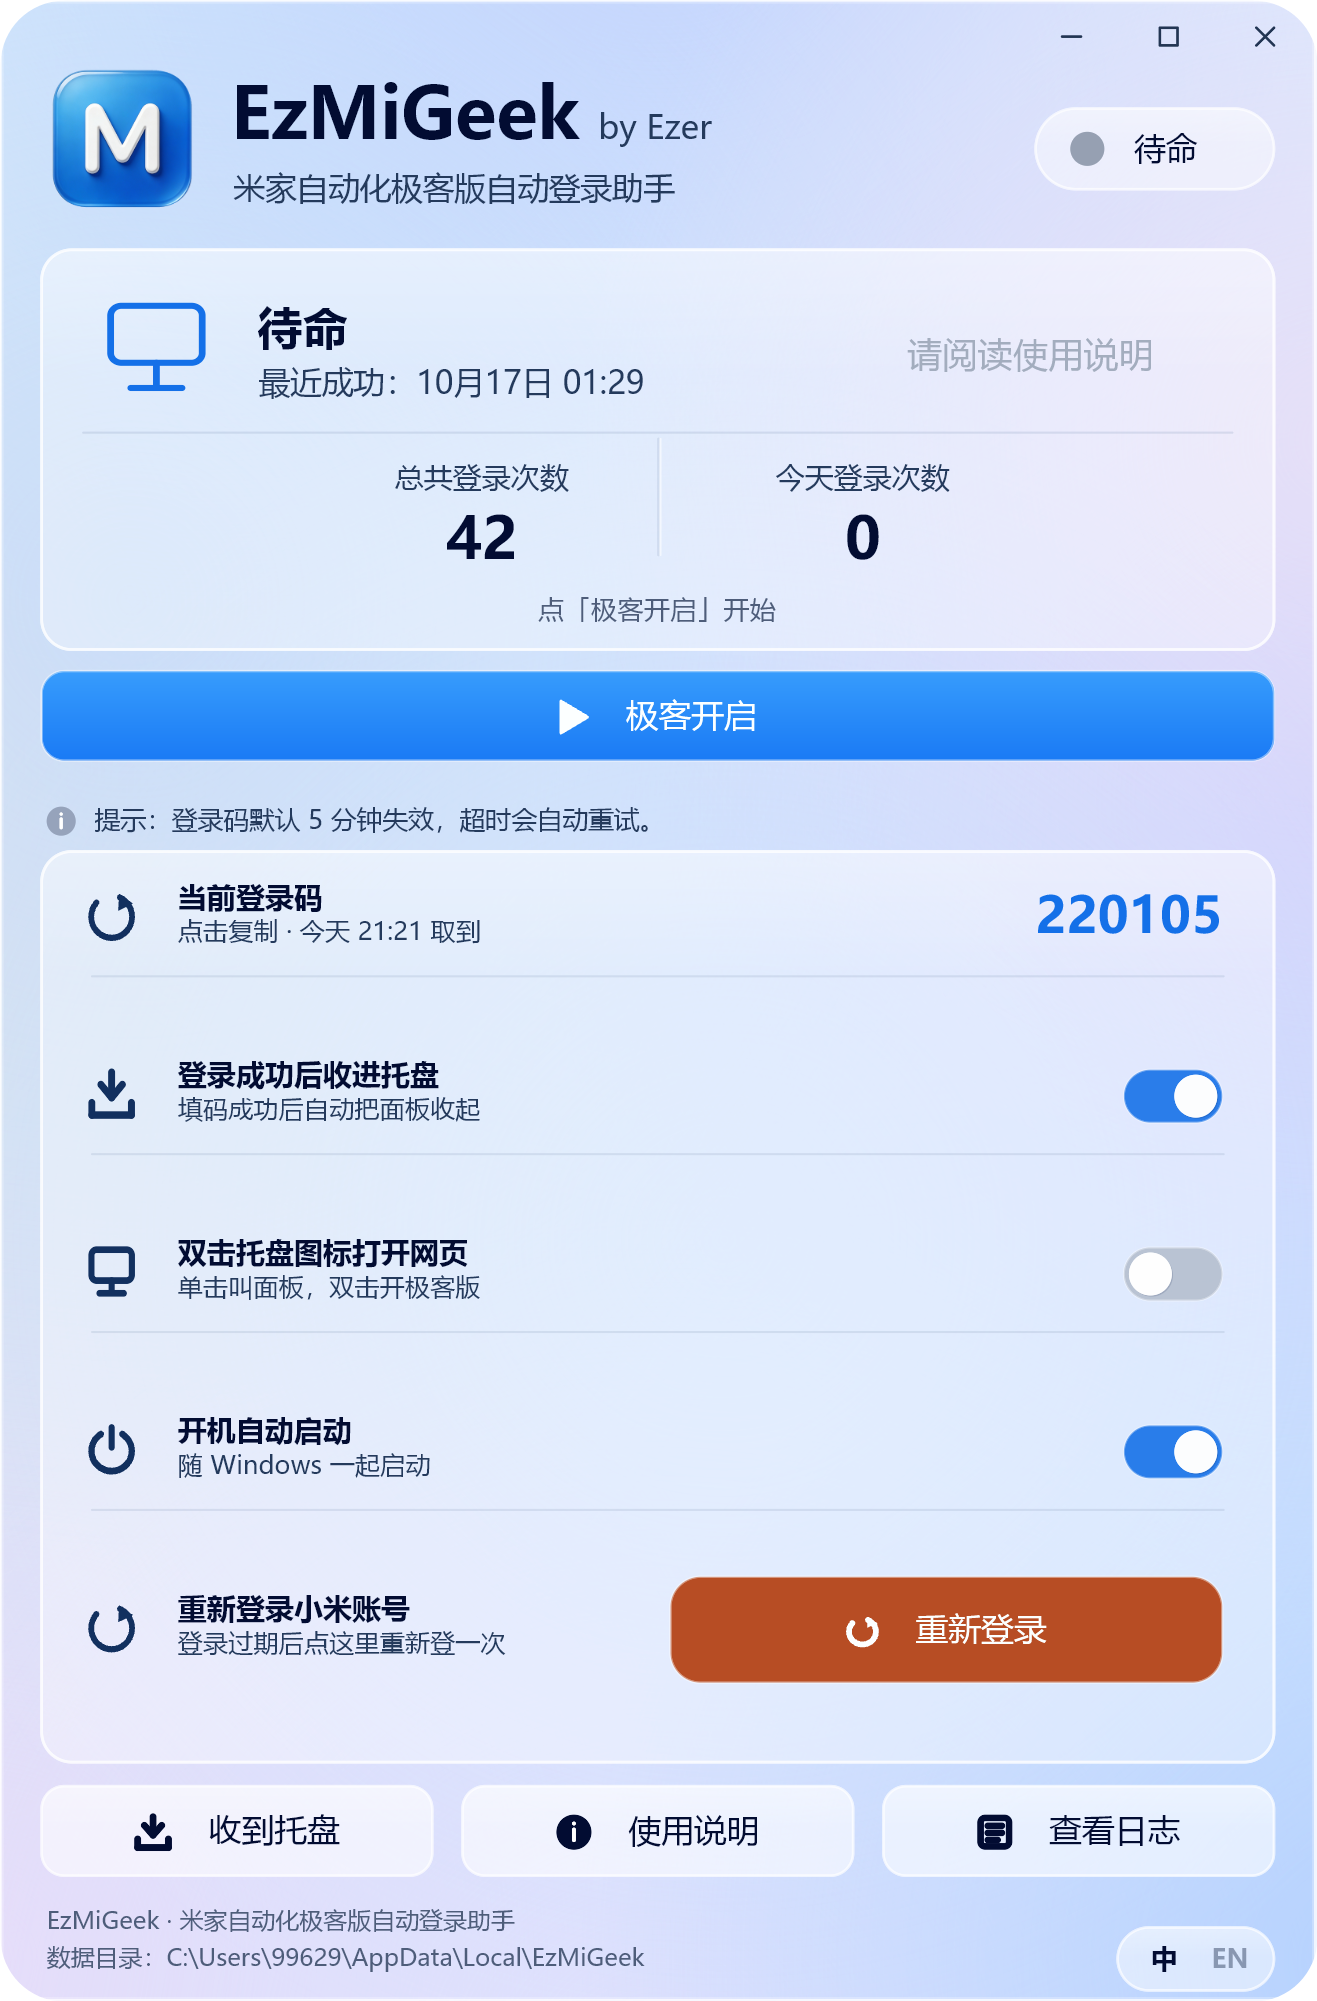
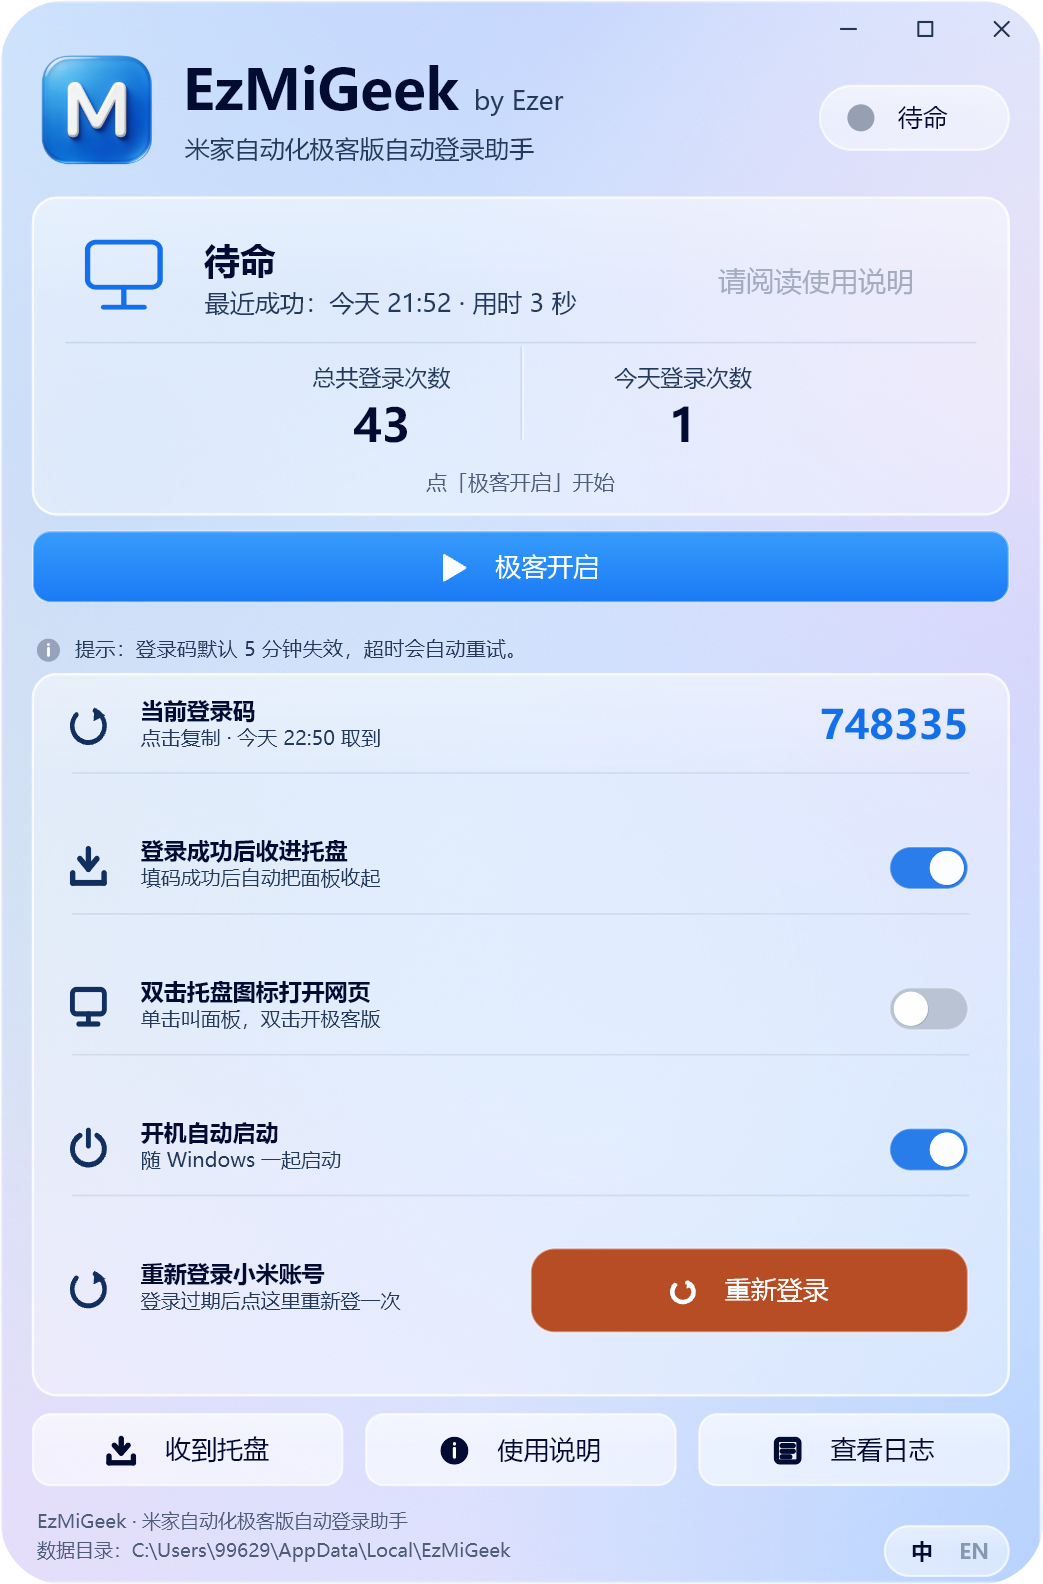
登录码行新增「取新码」：左侧 ↻ 图标兼任按钮，悬停亮出玻璃圆底
- 点图标无视现有码立刻重取（codeRefresh 命中先于整行，命中区外扩 10px 好点）
- 点行其他位置仍是复制；无码/失败时点行重试（原逻辑不变）
- --ui-png 出图密度自适应（≈2× 设计宽，封顶 3×），不再固定 3×
- preview.png 换成新交互版（悬停态不出现在静态图，图为平时外观）

diff --git a/lib/ui/ezshell.dart b/lib/ui/ezshell.dart
@@ -57,6 +57,7 @@ class _EzShellState extends State<EzShell> {
       case EzHit.doc: s.openManual();
       case EzHit.log: s.openLogsFolder();
       case EzHit.codeRow: s.onCodeRowTapped();
+      case EzHit.codeRefresh: s.onCodeRefreshTapped();
       case EzHit.toggleTray: s.toggleRow(1);
       case EzHit.toggleDbl: s.toggleRow(2);
       case EzHit.toggleStart: s.toggleRow(4);
@@ -365,7 +366,8 @@ class EzShellPainter extends CustomPainter {
       switch (i) {
         case 0:
           // ★ 登录码行（2026-10-19 用户钦定：取到的 6 位码直观显示，第一行）。
-          _codeRow(c, cy, u.rowT[0], u.rowS[0], u.codeText, u.codeReady);
+          _codeRow(c, cy, u.rowT[0], u.rowS[0], u.codeText, u.codeReady,
+              hover == EzHit.codeRefresh);
         case 1:
           _row(c, cy, _IcoKind.tray, u.rowT[1], u.rowS[1], u.rowOn[1]);
         case 2:
@@ -404,10 +406,18 @@ class EzShellPainter extends CustomPainter {
     _toggle(c, Geo.togX, cy + 2, on);
   }
 
-  /// 登录码行：左侧标题+状态副标题，右侧（拨杆位）大字直观显示 6 位码。
-  /// 点行 = 复制（有码）/重取（无码），命中区整行（kRowToggles[0]=codeRow）。
-  void _codeRow(Canvas c, double cy, String title, String sub, String code, bool ready) {
-    _icon(c, _IcoKind.refresh, _rowIconBox(cy), Pal.iconNavy);
+  /// 登录码行：左侧 ↻ 图标兼任「取新码」钮（悬停亮玻璃圆底），右侧大字显示码。
+  /// 点行 = 复制（有码）/重取（无码），命中区整行（kRowToggles[0]=codeRow）；
+  /// 点左图标 = 无视现有码直接再取新码（codeIcoHit → codeRefresh）。
+  void _codeRow(Canvas c, double cy, String title, String sub, String code, bool ready,
+      bool hov) {
+    final icoBox = _rowIconBox(cy);
+    if (hov) {
+      // 悬停才亮出的玻璃圆底：图标本身兼任按钮，平时不占一分版面。
+      final halo = Rect.fromCircle(center: icoBox.center, radius: 31);
+      glass(c, halo, 31, Pal.aPill + 40, 170, 2);
+    }
+    _icon(c, _IcoKind.refresh, icoBox, hov ? Pal.iconBlue : Pal.iconNavy);
     // 右侧给码留 200 设计px（6 位 40px 粗体 ≈150 宽 + 右缩进 41），文字在码左沿收。
     final maxw = Geo.cr - 200 - Geo.c3TxX;
     ezTxt(c, title, EzFont.fC3t(Pal.ink), Geo.c3TxX, cy - 13, EzAlign.left, maxW: maxw);

diff --git a/lib/main.dart b/lib/main.dart
@@ -211,11 +211,13 @@ Future<void> main(List<String> args) async {
         if (!state.codeSettled) throw StateError('登录码还没取到，再等一拍');
         // 状态落定 ≠ 画面已更新：等当帧画完再抓，不然截到的还是旧帧。
         await WidgetsBinding.instance.endOfFrame;
-        final ctx = key.currentContext;
-        if (ctx == null) throw StateError('boundary 尚未挂载');
-        final boundary = ctx.findRenderObject()! as RenderRepaintBoundary;
-        // 3× 密度栅格化：窗口被屏幕压小后按逻辑 1× 抓会糊，README 里缩放也要保清晰。
-        final image = await boundary.toImage(pixelRatio: 3.0);
+        // async gap 之后直接从 GlobalKey 现取 boundary，不存 ctx 变量。
+        final ro = key.currentContext?.findRenderObject();
+        if (ro is! RenderRepaintBoundary) throw StateError('boundary 尚未挂载');
+        // 出图密度自适应：目标 ≈2× 设计宽（1043×2=2086px）——窗口被屏幕压小
+        // 就用更高密度补回清晰度（封顶 3×），窗口已到设计尺寸就正好 2×。
+        final density = (2086 / ro.size.width).clamp(1.0, 3.0);
+        final image = await ro.toImage(pixelRatio: density);
         final data = await image.toByteData(format: ui.ImageByteFormat.png);
         if (data == null) throw StateError('PNG 编码返回空');
         File(outPath).writeAsBytesSync(data.buffer.asUint8List(), flush: true);

diff --git a/lib/core/ezui.dart b/lib/core/ezui.dart
@@ -114,6 +114,11 @@ abstract final class Geo {
   static const double togW = 78, togH = 42, togInset = 41;
   static double get togX => cr - togInset - togW;
 
+  // 行 0 左侧 ↻ 图标兼任「取新码」钮：平时是普通行图标，悬停才亮出玻璃圆底，
+  // 不额外占版面（2026-10-20 用户钦定：不要右侧单独按钮，就融进这个图标）。
+  static Rect get codeIcoHit => Rect.fromLTWH(
+      c3IcoX - 10, c3Row1Cy - c3IcoH / 2 - 10, c3IcoW + 20, c3IcoH + 20);
+
   // 设置卡动作行红方块（2026-09-21 晚：母本 EzMMB WideSlot 同款几何）
   static const double rowBtnW = 437.5, rowBtnH = 84, rowBtnRad = 24;
   static double get rowBtnX => cr - togInset - rowBtnW; // 右沿与拨杆同一条边
@@ -494,6 +499,7 @@ enum EzHit {
   doc,
   log,
   codeRow,
+  codeRefresh,
   toggleTray,
   toggleDbl,
   relogin,
@@ -546,6 +552,8 @@ EzHit ezHit(double x, double y) {
   for (var i = 0; i < 5; i++) {
     final cy = Geo.c3RowCy(i);
     if (y < cy - 48 || y > cy + 48) continue;
+    // 行 0 左侧 ↻ 图标 = 取新码，先于整行判定（其余行图标不单独命中）。
+    if (i == 0 && Geo.codeIcoHit.contains(Offset(x, y))) return EzHit.codeRefresh;
     if (x < Geo.c3TxX) continue;
     final hit = kRowToggles[i];
     if (hit == null) {

diff --git a/lib/state/app_state.dart b/lib/state/app_state.dart
@@ -334,6 +334,12 @@ class AppState extends ChangeNotifier {
     unawaited(refreshDisplayedCode());
   }
 
+  /// 点「取新码」圆钮：不管现在有没有码，直接再取一次 —— 这就是「随时手动
+  /// 要一个当前有效码」的入口。连点有 _codeFetching 闸着，不会并发。
+  void onCodeRefreshTapped() {
+    unawaited(refreshDisplayedCode());
+  }
+
   /// 取一次登录码给设置卡显示。失败不弹窗（副标题报「取码失败 · 点击重试」，
   /// 详情在日志）。不 busy 面板 —— 这只是个展示行，别影响主流程观感。
   Future<void> refreshDisplayedCode() async {
